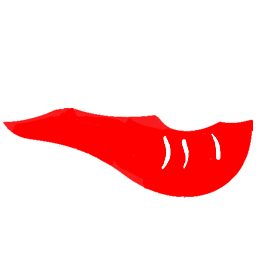
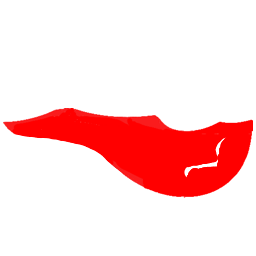
sketch-lips WIP

diff --git a/sketch-lips.js b/sketch-lips.js
@@ -1,5 +1,10 @@
 // canvas-sketch sketch-lips.js --open --output=export/
 
+// todo:
+// 1. cut segments with lips mask
+// 2. remove bottom edge
+// 3. liquid stekanie
+
 //const clustering = require('density-clustering');
 //const convexHull = require('convex-hull');
 const canvasSketch = require('canvas-sketch');
@@ -19,14 +24,13 @@ const debug = {
 };
 const bmpSize = 256;
 const svgSize = 256;
-const randomPointsCountHand = 16666;
-const randomPointsCountLips = 40000;
+const randomPointsCountLips = 100000;
 
-const handMargin = 0.666;
-const margin = 4.4;
-const lipsOffset = [-0.7, 2.3];
+const handMargin = 0.366;
+const margin = 1.0;
+const lipsOffset = [-0.0, 0.0];
 
-const penThicknessCm = 0.01;
+const penThicknessCm = 0.03;
 
 let teethSVGSegments;
 loadsvg('img/lips/teeth_rough.svg', async(err, svg) => {
@@ -37,10 +41,6 @@ const sketch = async ({ width, height, units, render }) => {
 
   const image_lips_up = await load('img/lips/lips_up_details.png');
   const image_lips_down = await load('img/lips/lips_down_details.png');
-  const image_hand = await load('img/lips/hand_inverse.png');
-  const image_hand_lips_mask = await load('img/lips/hand_lips_mask.png');
-
-  const pointsRandomHand = generatePoints(randomPointsCountHand, width, height, handMargin);
   const pointsRandomLips = generatePoints(randomPointsCountLips, width, height, handMargin);
 
   var canvas = document.createElement('canvas');
@@ -55,31 +55,26 @@ const sketch = async ({ width, height, units, render }) => {
   tmpContext.clearRect(0, 0, bmpSize, bmpSize);
   tmpContext.drawImage(image_lips_down, 0, 0, bmpSize, bmpSize);
   const lips_down_bmp = tmpContext.getImageData(0, 0, bmpSize, bmpSize);
-  tmpContext.clearRect(0, 0, bmpSize, bmpSize);
-  tmpContext.drawImage(image_hand, 0, 0, bmpSize, bmpSize);
-  const hand_bmp = tmpContext.getImageData(0, 0, bmpSize, bmpSize);
-  tmpContext.clearRect(0, 0, bmpSize, bmpSize);
-  tmpContext.drawImage(image_hand_lips_mask, 0, 0, bmpSize, bmpSize);
-  const hand_lips_mask_bmp = tmpContext.getImageData(0, 0, bmpSize, bmpSize);
 
-  const lipsUpMaskFunc = entry => pointInBMPMask(entry, width, height, margin, lips_up_bmp);
-  const lipsDownMaskFunc = entry => pointInBMPMask(entry, width, height, margin, lips_down_bmp);
+  const lipsUpMaskFunc = entry =>
+  {
+      return pointInBMPMask(entry, width, height, margin, lips_up_bmp)
+        || !pointInBMPMask(entry, width, height, margin, lips_down_bmp);
+  };
+  const lipsDownMaskFunc = entry =>
+  {
+      return !pointInBMPMask(entry, width, height, margin, lips_up_bmp);
+  };
+
   const lipsUpPolys = voronoiPolysFromPointsAndMask(pointsRandomLips, width, height, margin, lipsUpMaskFunc);
   const lipsDownPolys = voronoiPolysFromPointsAndMask(pointsRandomLips, width, height, margin, lipsDownMaskFunc);
 
-  const handMaskFunc = entry =>
-  {
-      return pointInBMPMask(entry, width, height, handMargin, hand_bmp)
-        || pointInBMPMask(entry, width, height, margin, hand_lips_mask_bmp, lipsOffset);
-  }
-  const handPolys = voronoiPolysFromPointsAndMask(pointsRandomHand, width, height, handMargin, handMaskFunc);
-
   const points = [];
   const lines = [];
-  addSegmentsFromPolys(lipsUpPolys.fullyInside, lines, lipsOffset, debug);
-  addSegmentsFromPolys(lipsDownPolys.fullyInside, lines, lipsOffset, debug);
-  addSegmentsFromPolys(handPolys.fullyOutside, lines, [0, 0], debug);
-  addSegmentsFromPolys(handPolys.partiallyInside, lines, [0, 0], debug);
+  addSegmentsFromPolys(lipsUpPolys.fullyOutside, lines, lipsOffset, debug);
+  addSegmentsFromPolys(lipsUpPolys.partiallyInside, lines, lipsOffset, debug);
+  addSegmentsFromPolys(lipsDownPolys.fullyOutside, lines, lipsOffset, debug);
+  addSegmentsFromPolys(lipsDownPolys.partiallyInside, lines, lipsOffset, debug);
   console.log("Remove duplicates ", debug.duplicateSegments, "of total ", lines.length + debug.duplicateSegments);
 
   const mapSegCoords = (seg, offset) => {
@@ -138,7 +133,7 @@ return ({ context }) => {
   };
 };
 canvasSketch(sketch, {
-  dimensions: [ 13, 13 ],
+  dimensions: [ 12, 12 ],
   pixelsPerInch: 300,
   units: 'cm',
 });
